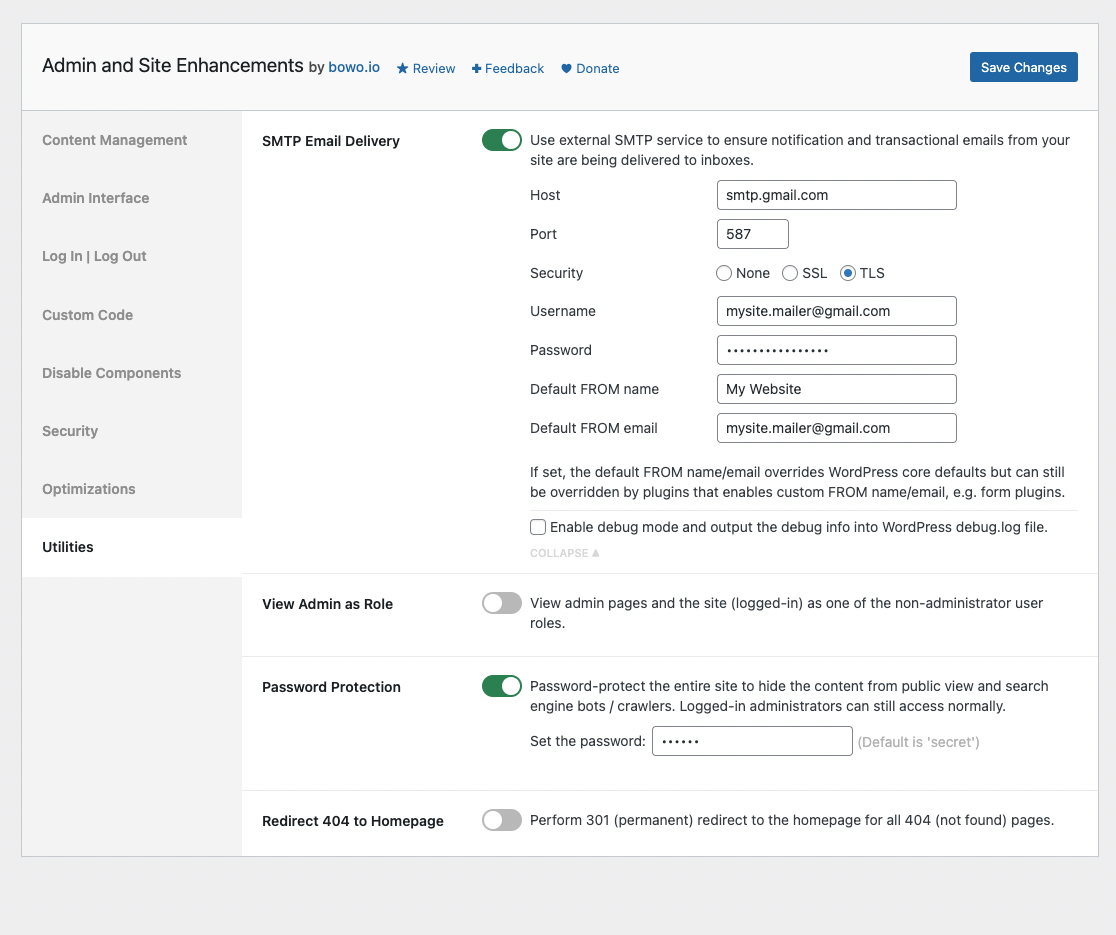
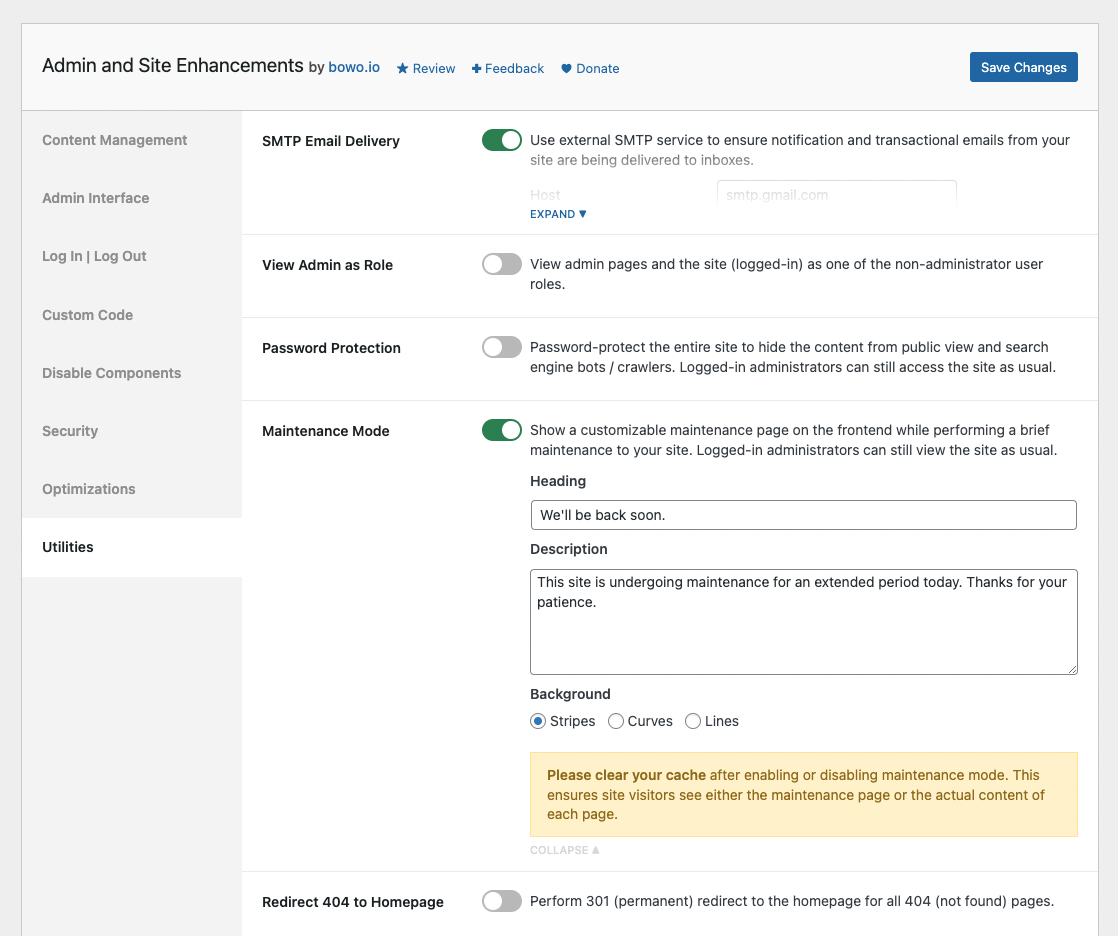
v4.7.0 release

diff --git a/admin-site-enhancements.php b/admin-site-enhancements.php
@@ -4,7 +4,7 @@
  * Plugin Name:       Admin and Site Enhancements
  * Plugin URI:        https://wordpress.org/plugins/admin-site-enhancements/
  * Description:       Easily enable enhancements and features that usually require multiple plugins.
- * Version:           4.6.0
+ * Version:           4.7.0
  * Author:            Bowo
  * Author URI:        https://bowo.io
  * License:           GPL-2.0+
@@ -18,7 +18,7 @@ if ( ! defined( 'ABSPATH' ) ) {
 	exit;
 }
 
-define( 'ASENHA_VERSION', '4.6.0' );
+define( 'ASENHA_VERSION', '4.7.0' );
 define( 'ASENHA_ID', 'asenha' );
 define( 'ASENHA_SLUG', 'admin-site-enhancements' );
 define( 'ASENHA_SLUG_U', 'admin_site_enhancements' );

diff --git a/README.md b/README.md
@@ -5,7 +5,7 @@ Donate link: https://paypal.me/qriouslad
 Tags: enhancements, tweaks, optimizations, tools  
 Requires at least: 4.6  
 Tested up to: 6.1.1  
-Stable tag: 4.6.0  
+Stable tag: 4.7.0  
 Requires PHP: 5.6  
 License: GPLv2 or later  
 License URI: http://www.gnu.org/licenses/gpl-2.0.html
@@ -103,7 +103,8 @@ Admin and Site Enhancements helps you to easily enhance various admin workflows 
 
 * **SMTP Email Delivery**. Use external SMTP service to ensure notification and transactional emails from your site are being delivered to inboxes.
 * **View Admin as Role**. View admin pages and the site (logged-in) as one of the non-administrator user roles.
-* **Password Protection**. Password-protect the entire site to hide the content from public view and search engine bots / crawlers. Logged-in administrators can still access normally.
+* **Password Protection**. Password-protect the entire site to hide the content from public view and search engine bots / crawlers. Logged-in administrators can still access the site as usual.
+* **Maintenance Mode**. Show a customizable maintenance page on the frontend while performing a brief maintenance to your site. Logged-in administrators can still view the site as usual.
 * **Redirect 404 to Homepage**. Perform 301 (permanent) redirect to the homepage for all 404 (not found) pages.
 
 Admin and Site Enhancements will include more enhancements, tweaks and useful features in future versions. Please [give feedback](https://wordpress.org/support/plugin/admin-site-enhancements/) on must-have plugins or code snippets you enable on sites that you manage, and the functionalities will be considered for inclusion as well.
@@ -149,6 +150,12 @@ Admin and Site Enhancements will include more enhancements, tweaks and useful fe
 Hoping that this is useful in reducing the number of plugins we install the first time we set up a site.
 
 ## Changelog
+
+### 4.7.0 (2023.02.24)
+
+* **[ADDED] Utilities >> Maintenance Mode**. Show a customizable maintenance page on the frontend while performing a brief maintenance to your site. Logged-in administrators can still view the site as usual.
+* **[CHANGED] Disable Smaller Components >> Disable Dashicons CSS and JS** now excludes the login page. This ensures the login page CSS styles is correctly loaded.
+* **[CHANGED] Utilities >> SMTP Email Delivery**. Slight improvement to copy/description for improved clarity.
 
 ### 4.6.0 (2023.02.22)
 
